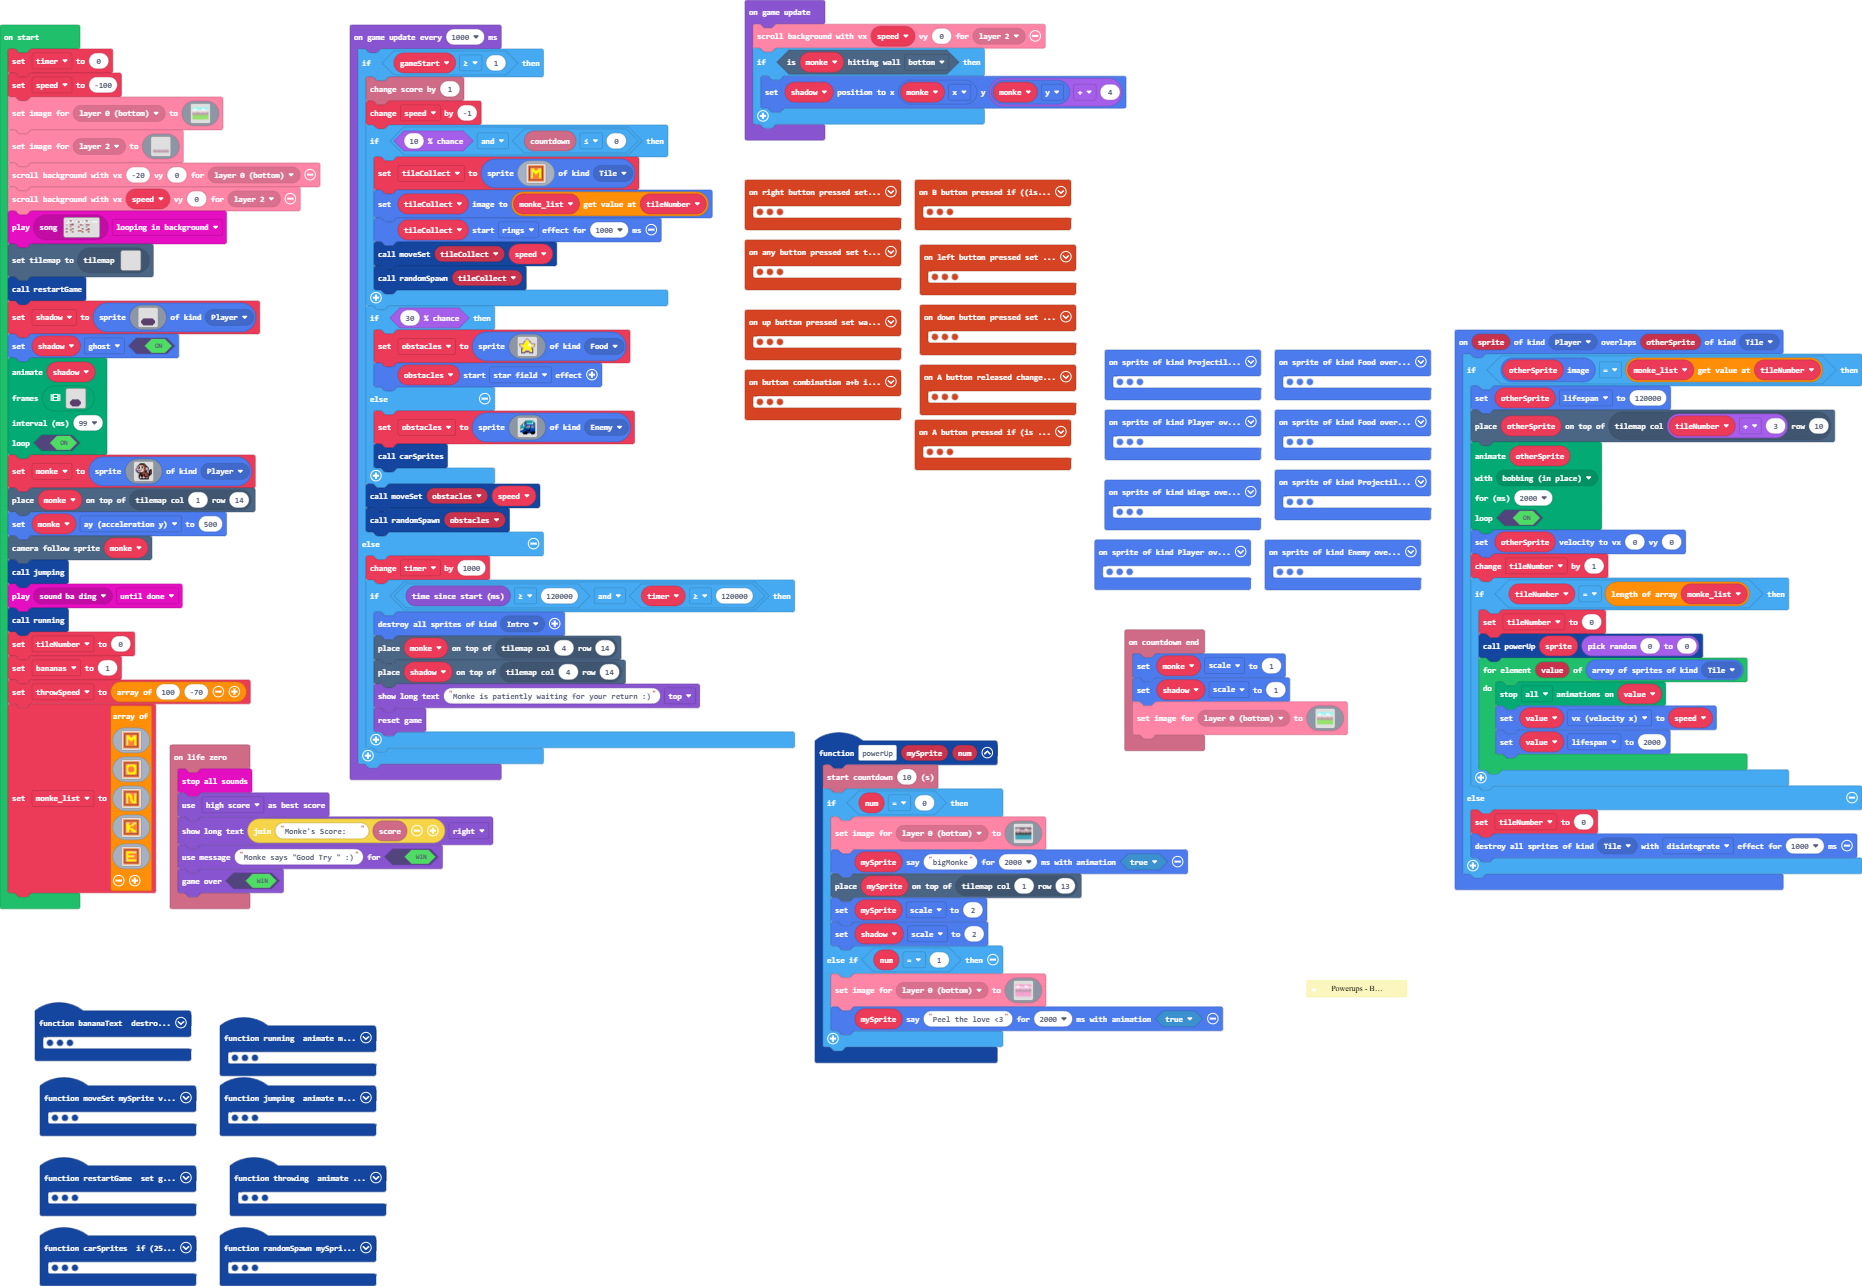
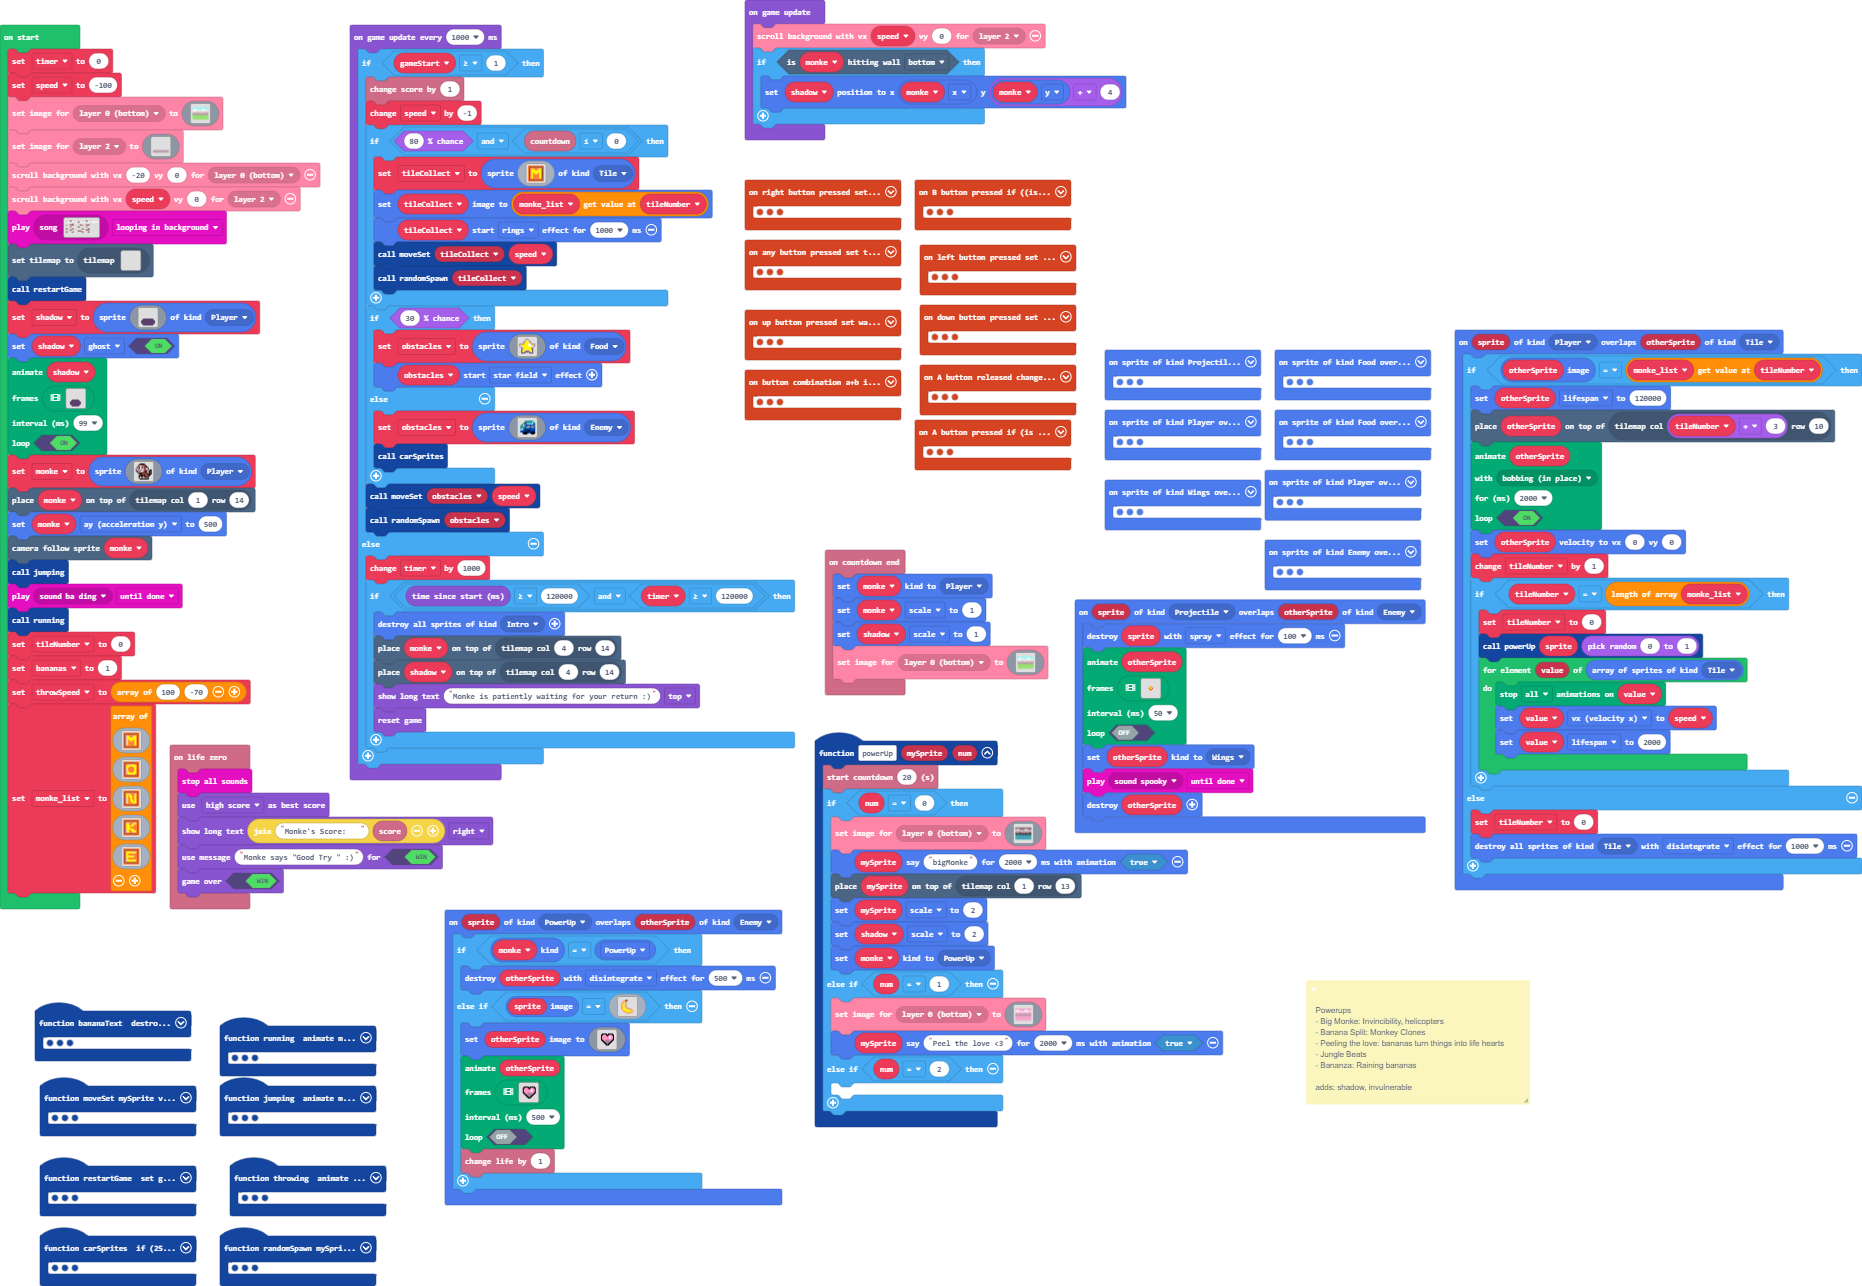
powerup work

diff --git a/main.ts b/main.ts
@@ -3,17 +3,20 @@ namespace SpriteKind {
     export const Wings = SpriteKind.create()
     export const Tile = SpriteKind.create()
     export const Shadow = SpriteKind.create()
+    export const PowerUp = SpriteKind.create()
 }
 /**
  * Powerups
  * 
- * - Big Monke: Invincibility (helicopters flying above)
+ * - Big Monke: Invincibility, helicopters
  * 
  * - Banana Split: Monkey Clones
  * 
  * - Peeling the love: bananas turn things into life hearts
  * 
  * - Jungle Beats
+ * 
+ * - Bananza: Raining bananas
  * 
  * adds: shadow, invulnerable
  */
@@ -658,6 +661,7 @@ function moveSet (mySprite: Sprite, velocity: number) {
     mySprite.lifespan = 3000
 }
 info.onCountdownEnd(function () {
+    monke.setKind(SpriteKind.Player)
     monke.scale = 1
     shadow.scale = 1
     scroller.setLayerImage(scroller.BackgroundLayer.Layer0, img`
@@ -854,13 +858,129 @@ function restartGame () {
     )
     titleScreen.setFlag(SpriteFlag.GhostThroughWalls, true)
 }
+sprites.onOverlap(SpriteKind.PowerUp, SpriteKind.Enemy, function (sprite, otherSprite) {
+    if (monke.kind() == SpriteKind.PowerUp) {
+        sprites.destroy(otherSprite, effects.disintegrate, 500)
+    } else if (sprite.image == assets.image`banana`) {
+        otherSprite.setImage(img`
+            . . . . . . . . . . . . . . . . 
+            . . . . . . . . . . . . . . . . 
+            . . . f f f f f . f f f f f . . 
+            . . f f 3 3 3 f f f 3 3 3 f f . 
+            . . f 3 3 3 3 3 f 3 3 3 3 3 f . 
+            . . f 3 3 3 3 3 3 3 1 1 3 3 f . 
+            . . f 3 3 3 3 3 3 3 1 1 3 3 f . 
+            . . f 3 3 3 3 3 3 3 3 3 3 3 f . 
+            . . f f 3 3 3 b b b 3 3 3 f f . 
+            . . . f f 3 b b b b b 3 f f . . 
+            . . . . f f b b b b b f f . . . 
+            . . . . . f f b b b f f . . . . 
+            . . . . . . f f b f f . . . . . 
+            . . . . . . . f f f . . . . . . 
+            . . . . . . . . . . . . . . . . 
+            . . . . . . . . . . . . . . . . 
+            `)
+        animation.runImageAnimation(
+        otherSprite,
+        [img`
+            . . . . . . . . . . . . . . . . 
+            . . . . . . . . . . . . . . . . 
+            . . . f f f f f . f f f f f . . 
+            . . f f 3 3 3 f f f 3 3 3 f f . 
+            . . f 3 3 3 3 3 f 3 3 3 3 3 f . 
+            . . f 3 3 3 3 3 3 3 1 1 3 3 f . 
+            . . f 3 3 3 3 3 3 3 1 1 3 3 f . 
+            . . f 3 3 3 3 3 3 3 3 3 3 3 f . 
+            . . f f 3 3 3 b b b 3 3 3 f f . 
+            . . . f f 3 b b b b b 3 f f . . 
+            . . . . f f b b b b b f f . . . 
+            . . . . . f f b b b f f . . . . 
+            . . . . . . f f b f f . . . . . 
+            . . . . . . . f f f . . . . . . 
+            . . . . . . . . . . . . . . . . 
+            . . . . . . . . . . . . . . . . 
+            `,img`
+            . . . . . . . . . . . . . . . . 
+            . . f f f f f f . f f f f f f . 
+            . f f 3 3 3 3 f f f 3 3 3 3 f f 
+            . f 3 3 3 3 3 3 f 3 3 3 3 3 3 f 
+            . f 3 3 3 3 3 3 3 3 1 1 1 3 3 f 
+            . f 3 3 3 3 3 3 3 3 1 1 1 3 3 f 
+            . f 3 3 3 3 3 b b b 1 1 1 3 3 f 
+            . f 3 3 3 3 b b b b b 3 3 3 3 f 
+            . f f 3 3 b b b b b b b 3 3 f f 
+            . . f f 3 b b b b b b b 3 f f . 
+            . . . f f b b b b b b b f f . . 
+            . . . . f f b b b b b f f . . . 
+            . . . . . f f b b b f f . . . . 
+            . . . . . . f f b f f . . . . . 
+            . . . . . . . f f f . . . . . . 
+            . . . . . . . . . . . . . . . . 
+            `,img`
+            . . . . . . . . . . . . . . . . 
+            . . . . . . . . . . . . . . . . 
+            . . . . . . . . . . . . . . . . 
+            . . . . . . . . . . . . . . . . 
+            . . . . . . . . . . . . . . . . 
+            . . . . . f f f . f f f . . . . 
+            . . . . f 3 3 3 f 3 3 3 f . . . 
+            . . . . f 3 3 3 3 3 1 3 f . . . 
+            . . . . f 3 3 3 3 3 3 3 f . . . 
+            . . . . . f 3 b b b 3 f . . . . 
+            . . . . . f f b b b f f . . . . 
+            . . . . . . f f b f f . . . . . 
+            . . . . . . . f f f . . . . . . 
+            . . . . . . . . . . . . . . . . 
+            . . . . . . . . . . . . . . . . 
+            . . . . . . . . . . . . . . . . 
+            `,img`
+            . . . . . . . . . . . . . . . . 
+            . . b b b b c . . c b b b c . . 
+            . b d 1 1 1 3 c c 3 d 1 1 3 c . 
+            b d 1 1 1 1 d d 1 3 1 1 1 1 3 c 
+            b 1 1 1 1 1 d 1 1 d d 1 1 1 1 b 
+            c 3 1 1 d c c 1 1 c c 1 1 1 1 b 
+            c 3 3 d 3 . . c c . . d 1 1 d b 
+            b 1 1 1 3 . . . . . . 3 d d 3 c 
+            b 1 1 1 d b . . . . c d d 3 3 c 
+            c 3 1 1 1 1 c . . b 1 1 1 d b c 
+            . c d d 1 1 1 c b 3 1 1 1 1 c . 
+            . . c 1 1 1 d d 3 3 1 1 1 b . . 
+            . . . b 1 3 d 1 1 d d 3 b . . . 
+            . . . . b 3 1 1 1 1 d c . . . . 
+            . . . . . c b 1 1 b c . . . . . 
+            . . . . . . c b b c . . . . . . 
+            `,img`
+            . . . 3 3 . 3 3 . . . . . . . . 
+            . . 3 3 1 3 1 3 3 . . . . . . . 
+            . . 3 1 1 1 1 1 3 . . 3 . 3 . . 
+            . . . 3 1 1 1 3 . . 3 1 3 1 3 . 
+            . . . . 3 1 3 . . . 3 1 1 1 3 . 
+            . . . . . 3 . . . . . 3 1 3 . . 
+            . . . . . . . . . . . . 3 . . . 
+            3 3 . 3 3 . . . . . . . . . . . 
+            3 1 1 1 3 . . . . . 3 3 . 3 3 . 
+            . 3 1 3 . . . . . . 3 1 3 1 3 . 
+            . . 3 . . . . . . . 3 1 1 1 3 . 
+            . . . . . 3 . 3 . . . 3 1 3 . . 
+            . . . . . 1 1 1 . . . . 3 . . . 
+            . . . . . 3 1 3 . . . . . . . . 
+            . . . . . . 3 . . . . . . . . . 
+            . . . . . . . . . . . . . . . . 
+            `],
+        500,
+        false
+        )
+        info.changeLifeBy(1)
+    }
+})
 controller.down.onEvent(ControllerButtonEvent.Pressed, function () {
     tiles.setWallAt(tiles.getTileLocation(1, 15), false)
     pause(200)
     shadow.y = 252
 })
 function powerUp (mySprite: Sprite, num: number) {
-    info.startCountdown(10)
+    info.startCountdown(20)
     if (num == 0) {
         scroller.setLayerImage(scroller.BackgroundLayer.Layer0, img`
             cccccccccccccccccccccccccccccccccccccccccccccccccccccccccccccccccccccccccccccccccccccccccccccccccccccccccccccccccccccccccccccccccccccccccccccccccccccccccccccccc
@@ -988,6 +1108,7 @@ function powerUp (mySprite: Sprite, num: number) {
         tiles.placeOnTile(mySprite, tiles.getTileLocation(1, 13))
         mySprite.scale = 2
         shadow.scale = 2
+        monke.setKind(SpriteKind.PowerUp)
     } else if (num == 1) {
         scroller.setLayerImage(scroller.BackgroundLayer.Layer0, img`
             3333333333333333333333333333333333333333333333333333333333333333333333333333333333333333333333333333333333333333333333333333333333333333333333333333333333333333
@@ -1112,6 +1233,8 @@ function powerUp (mySprite: Sprite, num: number) {
             3333333333333333333333333333333333333333333333333333333333333333333333333333333333333333333333333333333333333333333333333333333333333333333333333333333333333333
             `)
         mySprite.sayText("Peel the love <3", 2000, true)
+    } else if (num == 2) {
+    	
     }
 }
 controller.right.onEvent(ControllerButtonEvent.Pressed, function () {
@@ -1271,7 +1394,7 @@ sprites.onOverlap(SpriteKind.Player, SpriteKind.Tile, function (sprite, otherSpr
         tileNumber += 1
         if (tileNumber == monke_list.length) {
             tileNumber = 0
-            powerUp(sprite, randint(0, 0))
+            powerUp(sprite, randint(0, 1))
             for (let value of sprites.allOfKind(SpriteKind.Tile)) {
                 animation.stopAnimation(animation.AnimationTypes.All, value)
                 value.vx = speed
@@ -1315,6 +1438,12 @@ function randomSpawn (mySprite: Sprite) {
         tiles.placeOnTile(wings, tiles.getTileLocation(15, 13))
     }
 }
+controller.up.onEvent(ControllerButtonEvent.Pressed, function () {
+    tiles.setWallAt(tiles.getTileLocation(1, 15), true)
+    if (monke.isHittingTile(CollisionDirection.Bottom)) {
+        monke.vy = -50
+    }
+})
 sprites.onOverlap(SpriteKind.Projectile, SpriteKind.Enemy, function (sprite, otherSprite) {
     sprites.destroy(sprite, effects.spray, 100)
     animation.runImageAnimation(
@@ -1394,12 +1523,6 @@ sprites.onOverlap(SpriteKind.Projectile, SpriteKind.Enemy, function (sprite, oth
     otherSprite.setKind(SpriteKind.Wings)
     music.play(music.melodyPlayable(music.spooky), music.PlaybackMode.UntilDone)
     sprites.destroy(otherSprite)
-})
-controller.up.onEvent(ControllerButtonEvent.Pressed, function () {
-    tiles.setWallAt(tiles.getTileLocation(1, 15), true)
-    if (monke.isHittingTile(CollisionDirection.Bottom)) {
-        monke.vy = -50
-    }
 })
 sprites.onOverlap(SpriteKind.Player, SpriteKind.Food, function (sprite, otherSprite) {
     bananas += 1
@@ -2006,7 +2129,7 @@ game.onUpdateInterval(1000, function () {
     if (gameStart >= 1) {
         info.changeScoreBy(1)
         speed += -1
-        if (Math.percentChance(10) && info.countdown() <= 0) {
+        if (Math.percentChance(80) && info.countdown() <= 0) {
             tileCollect = sprites.create(img`
                 4 4 4 4 4 4 4 4 4 4 4 4 4 4 4 4 
                 4 e e e e e e e e e e e e e e 4 
